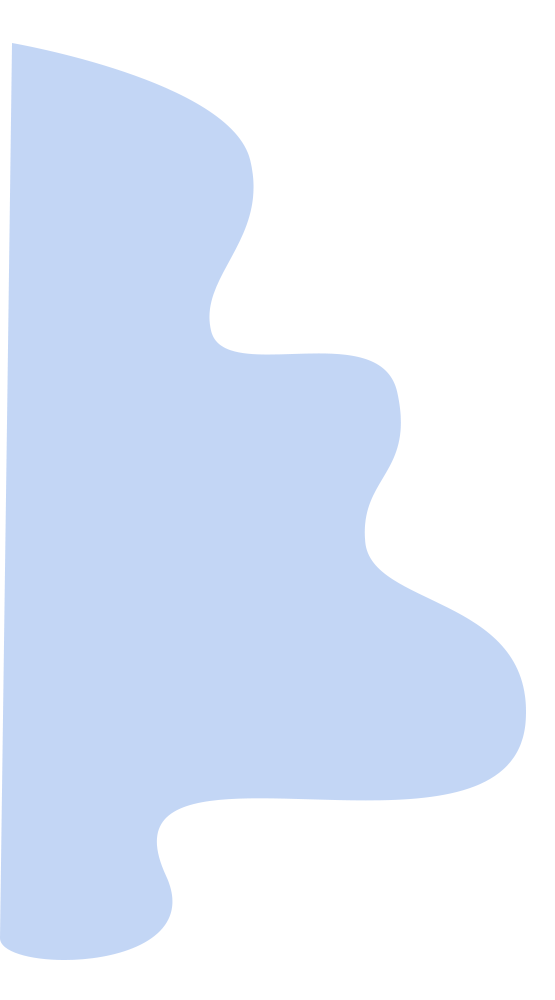
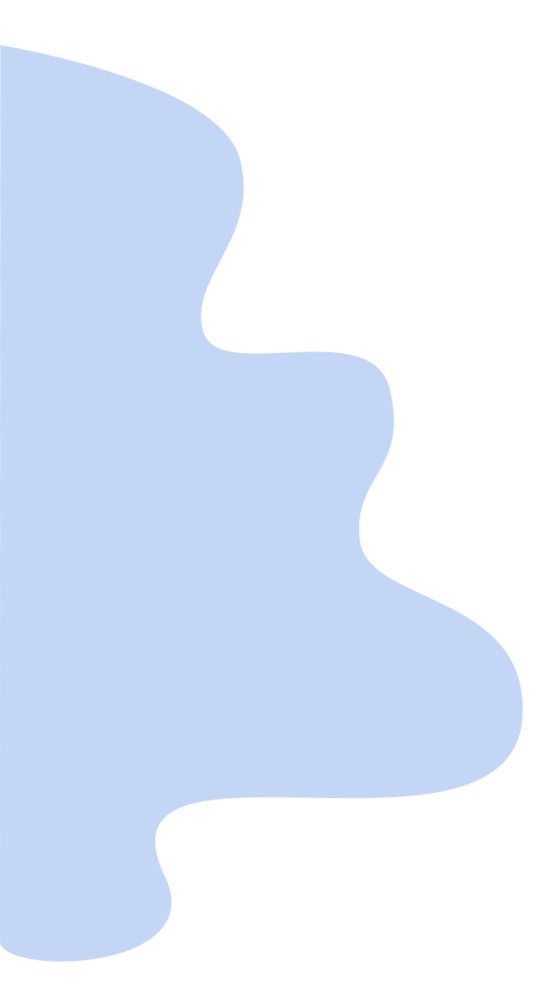
Finished project, contact and footer section

diff --git a/styles/styles.css b/styles/styles.css
@@ -253,6 +253,12 @@ p {
   color: #4E6D79;
 }
 
+h2,
+h3,
+a {
+  text-transform: uppercase;
+}
+
 h2 {
   font-size: 30px;
   font-size: 1.5rem;
@@ -273,7 +279,13 @@ a {
   color: #4E6D79;
 }
 
-.projectList a {
+p {
+  line-height: 1.5;
+  letter-spacing: 1.2px;
+}
+
+.projectList a,
+.contacts a {
   font-family: "Roboto", sans-serif;
   font-weight: 700;
   font-size: 18px;
@@ -404,8 +416,25 @@ h1 {
   font-size: 4.25rem;
 }
 
-.about {
+main {
   background-image: url(/assets/website-blue.png);
+  background-size: cover;
+  background-size: 60%;
+  background-repeat: no-repeat;
+}
+
+.projects {
+  background-image: url(/assets/website-yellow.png);
+  background-size: cover;
+  background-size: 100%;
+  background-repeat: no-repeat;
+}
+
+body {
+  background-image: url(/assets/landingpage-bottom.png);
+  background-size: contain;
+  background-repeat: no-repeat;
+  background-position: center bottom;
 }
 
 .about div {
@@ -431,6 +460,7 @@ h1 {
 
 .skills h2 {
   color: #4E6D79;
+  margin-top: 80px;
 }
 
 .skillsList {
@@ -458,7 +488,8 @@ h1 {
   margin: 20px 15px;
 }
 
-.fa-brands {
+.fa-brands,
+.fa-solid {
   font-size: 50px;
   color: #4E6D79;
 }
@@ -468,7 +499,12 @@ video {
   height: 250px;
 }
 
-.projectList a {
+.projects h2 {
+  text-align: center;
+}
+
+.projectList a,
+.contacts a {
   background-color: #FF9494;
   padding: 5px;
   border-radius: 5px;
@@ -489,4 +525,26 @@ video {
 
 .projectList h4 {
   margin: 10px 0;
+}
+
+.contacts {
+  text-align: center;
+}
+
+.contacts ul {
+  display: -webkit-box;
+  display: -ms-flexbox;
+  display: flex;
+  -webkit-box-pack: space-evenly;
+      -ms-flex-pack: space-evenly;
+          justify-content: space-evenly;
+}
+
+.contacts p {
+  margin: 20px 0;
+}
+
+footer {
+  text-align: center;
+  margin-top: 80px;
 }

diff --git a/index.html b/index.html
@@ -55,7 +55,7 @@
                 <ul>
                     <li>
                         <i class="fa-brands fa-html5"></i>
-                        <h4>HTML</h4>
+                        <h4>HTML5</h4>
                     </li>
                     <li>
                         <i class="fa-brands fa-css3-alt"></i>
@@ -107,7 +107,7 @@
                         <video autoplay loop muted playsinline>
                             <source src="./assets/BarOneIpad.mp4">
                         </video>
-                        <h3>BarOne</h3>
+                        <h3>Bar-One</h3>
                         <h4>HTML5 SaSS</h4>
                         <p>Lorem ipsum dolor sit amet consectetur adipisicing elit. Ullam voluptatibus fuga, aut dolore eius consequatur.
                         </p>
@@ -140,7 +140,23 @@
             </div>
         </div>
     </section>
+    <section class="contacts">
+        <div class="wrapper">
+            <h2>Contacts</h2>
+            <ul>
+                <li><i class="fa-brands fa-linkedin"></i></li>
+                <li><i class="fa-brands fa-github"></i></li>
+                <li><i class="fa-brands fa-square-twitter"></i></li>
+                <li><i class="fa-solid fa-envelope"></i></li>
+            </ul>
+            <p>Lorem ipsum dolor sit amet consectetur adipisicing elit. Labore, debitis.</p>
+            <a href="#">Email Me!</a>
+        </div>
+    </section>
    </main>
+   <footer>
+    <p>Built in 2022 by Terri Yiu</p>
+   </footer>
     
 <script src="/app.js"></script>
 </body>

diff --git a/styles/sass/layout/_main.scss b/styles/sass/layout/_main.scss
@@ -1,7 +1,26 @@
-// ABOUT ME
-.about {
+
+main {
     background-image: url(/assets/website-blue.png);
+    background-size: cover;
+    background-size: 60%;
+    background-repeat: no-repeat;   
 }
+
+.projects {
+    background-image: url(/assets/website-yellow.png);
+    background-size: cover;
+    background-size: 100%;
+    background-repeat: no-repeat;
+}
+
+body {
+    background-image: url(/assets/landingpage-bottom.png);
+    background-size: contain;
+    background-repeat: no-repeat;
+    background-position: center bottom;
+}
+
+// ABOUT ME
 
 .about div {
     text-align: center;
@@ -29,6 +48,7 @@
 
 .skills h2 {
     color: $primary;
+    margin-top: 80px;
 }
 
 .skillsList {
@@ -48,20 +68,25 @@
 }
 
 
-.fa-brands {
+.fa-brands,
+.fa-solid {
     font-size: 50px;
     color: $primary;
 }
 
 // PROJECTS
 
-
 video {
     width: 250px;
     height: 250px;
 }
 
-.projectList a {
+.projects h2{
+    text-align: center;
+}
+
+.projectList a,
+.contacts a {
     background-color: $secondary;
     padding: 5px;
     border-radius: 5px;
@@ -83,4 +108,17 @@ video {
 
 .projectList h4 {
     margin: 10px 0;
+}
+
+// CONTACTS
+
+.contacts {
+    text-align: center;
+}
+.contacts ul {
+    display: flex;
+    justify-content: space-evenly;
+}
+.contacts p {
+    margin: 20px 0;
 }

diff --git a/styles/sass/base/_typography.scss b/styles/sass/base/_typography.scss
@@ -9,6 +9,12 @@ p {
     color: $primary;
 }
 
+h2,
+h3,
+a {
+    text-transform: uppercase;
+}
+
 
 h2 {
     @include fontSize(30)
@@ -27,9 +33,15 @@ a {
     color: $primary;
 }
 
+p {
+    line-height: 1.5;
+    letter-spacing: 1.2px;
+}
 
 
-.projectList a {
+
+.projectList a,
+.contacts a {
     font-family: $secondaryFont;
     font-weight: 700;
     @include fontSize(18);

diff --git a/styles/sass/layout/_footer.scss b/styles/sass/layout/_footer.scss
@@ -1,0 +1,4 @@
+footer {
+    text-align: center;
+    margin-top: 80px;
+}
